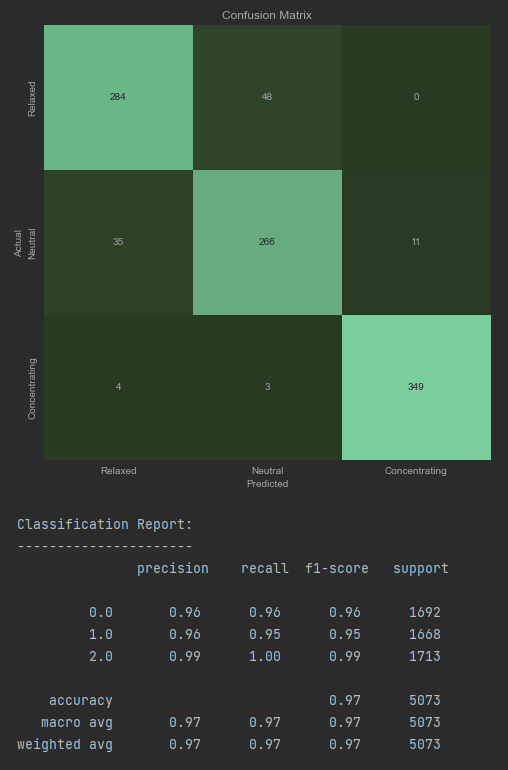
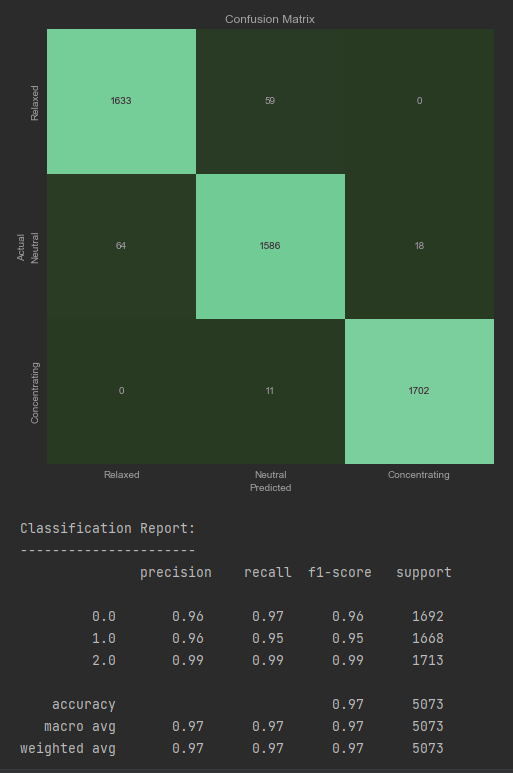
Pics and graph (ALL Features)

diff --git a/README.md b/README.md
@@ -179,7 +179,18 @@ values and FFTs from each of the 4 channels selected.
 
 <h2>Results</h2>
 
-<br>
+
+
+
+
+
+
+
+<h3>Statistical Features + FFTs</h3>
+<hr>
+<p>The following tables present scores for Precision, Recall, and F1-Score metrics for each
+type of model. These metrics and the accuracy graph presented below are a good indicator
+of all good the model performs.</p>
 <table>
 <tr>
     <th><h3>GRU Results</h3></th>
@@ -215,6 +226,11 @@ values and FFTs from each of the 4 channels selected.
     </td>
 </tr>
 </table>
+<hr>
+<p>This is the overall accuracies of the models when performing the predictions on all the features (statistical features and FFTs):</p>
+<figure class="center">
+  <img src="Pictures/accuracies_allfeatures.PNG">
+</figure>
 
 
 
